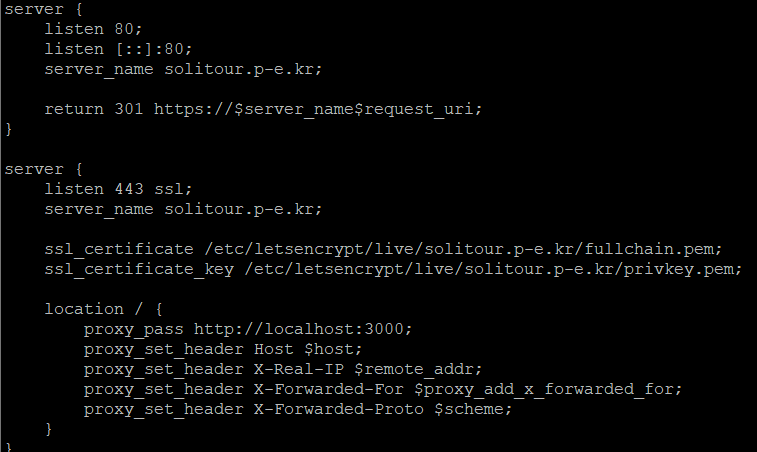
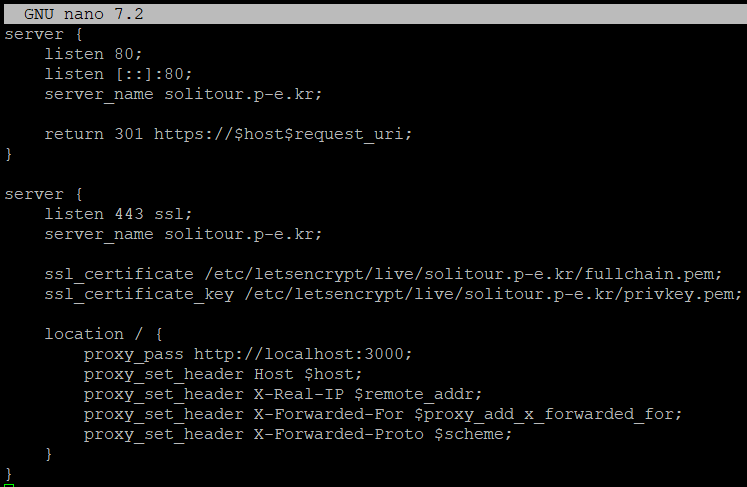
이미지 교체

diff --git a/raspberry-pi/_posts/2024-06-09-ssl-tls.md b/raspberry-pi/_posts/2024-06-09-ssl-tls.md
@@ -135,7 +135,7 @@ server {
     listen [::]:80;
     server_name example.com;
 
-    return 301 https://$server_name$request_uri;
+    return 301 https://$host$request_uri;
 }
 
 server {
